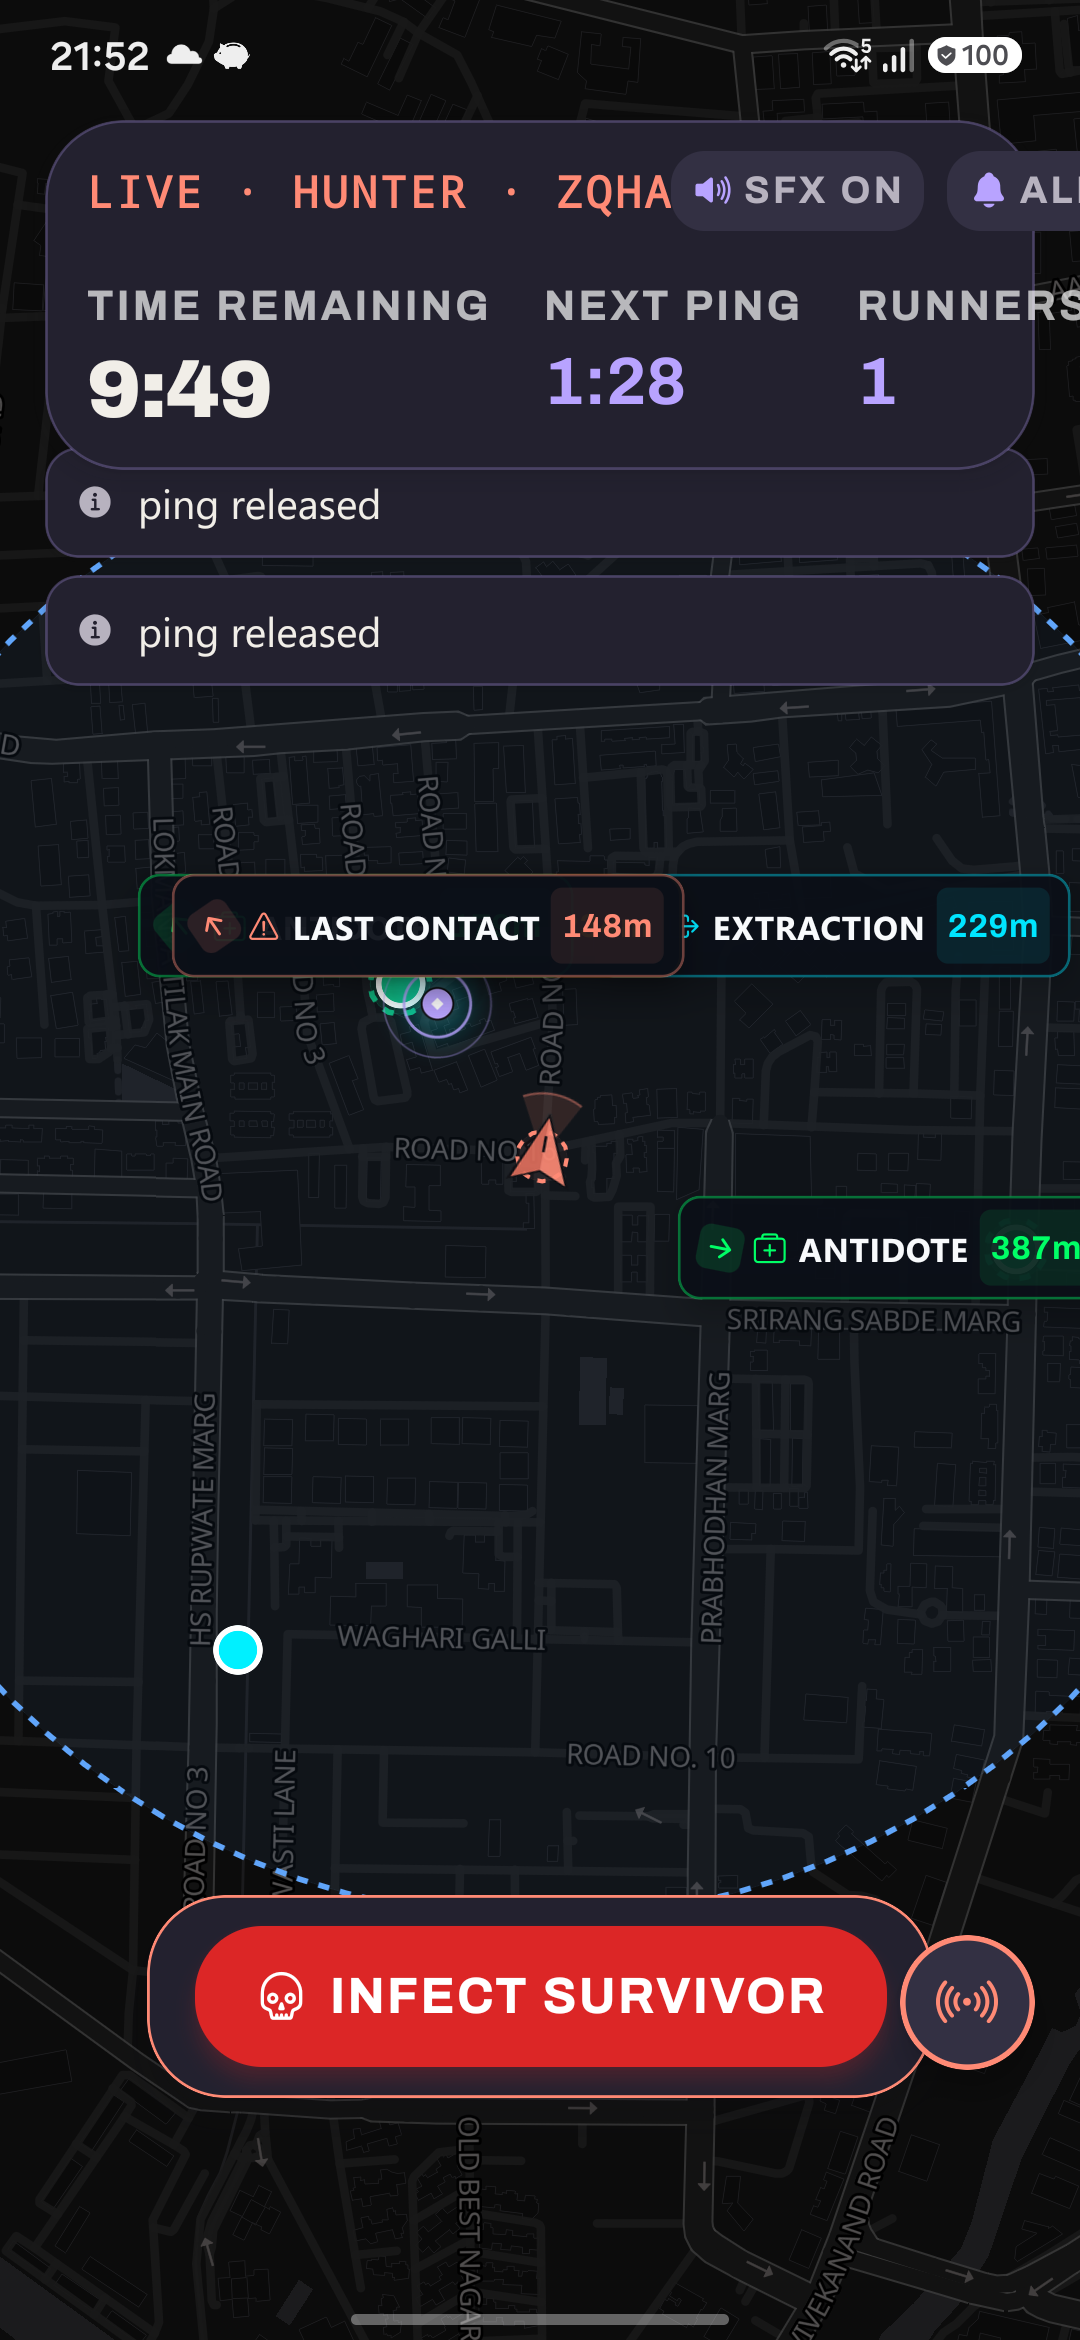
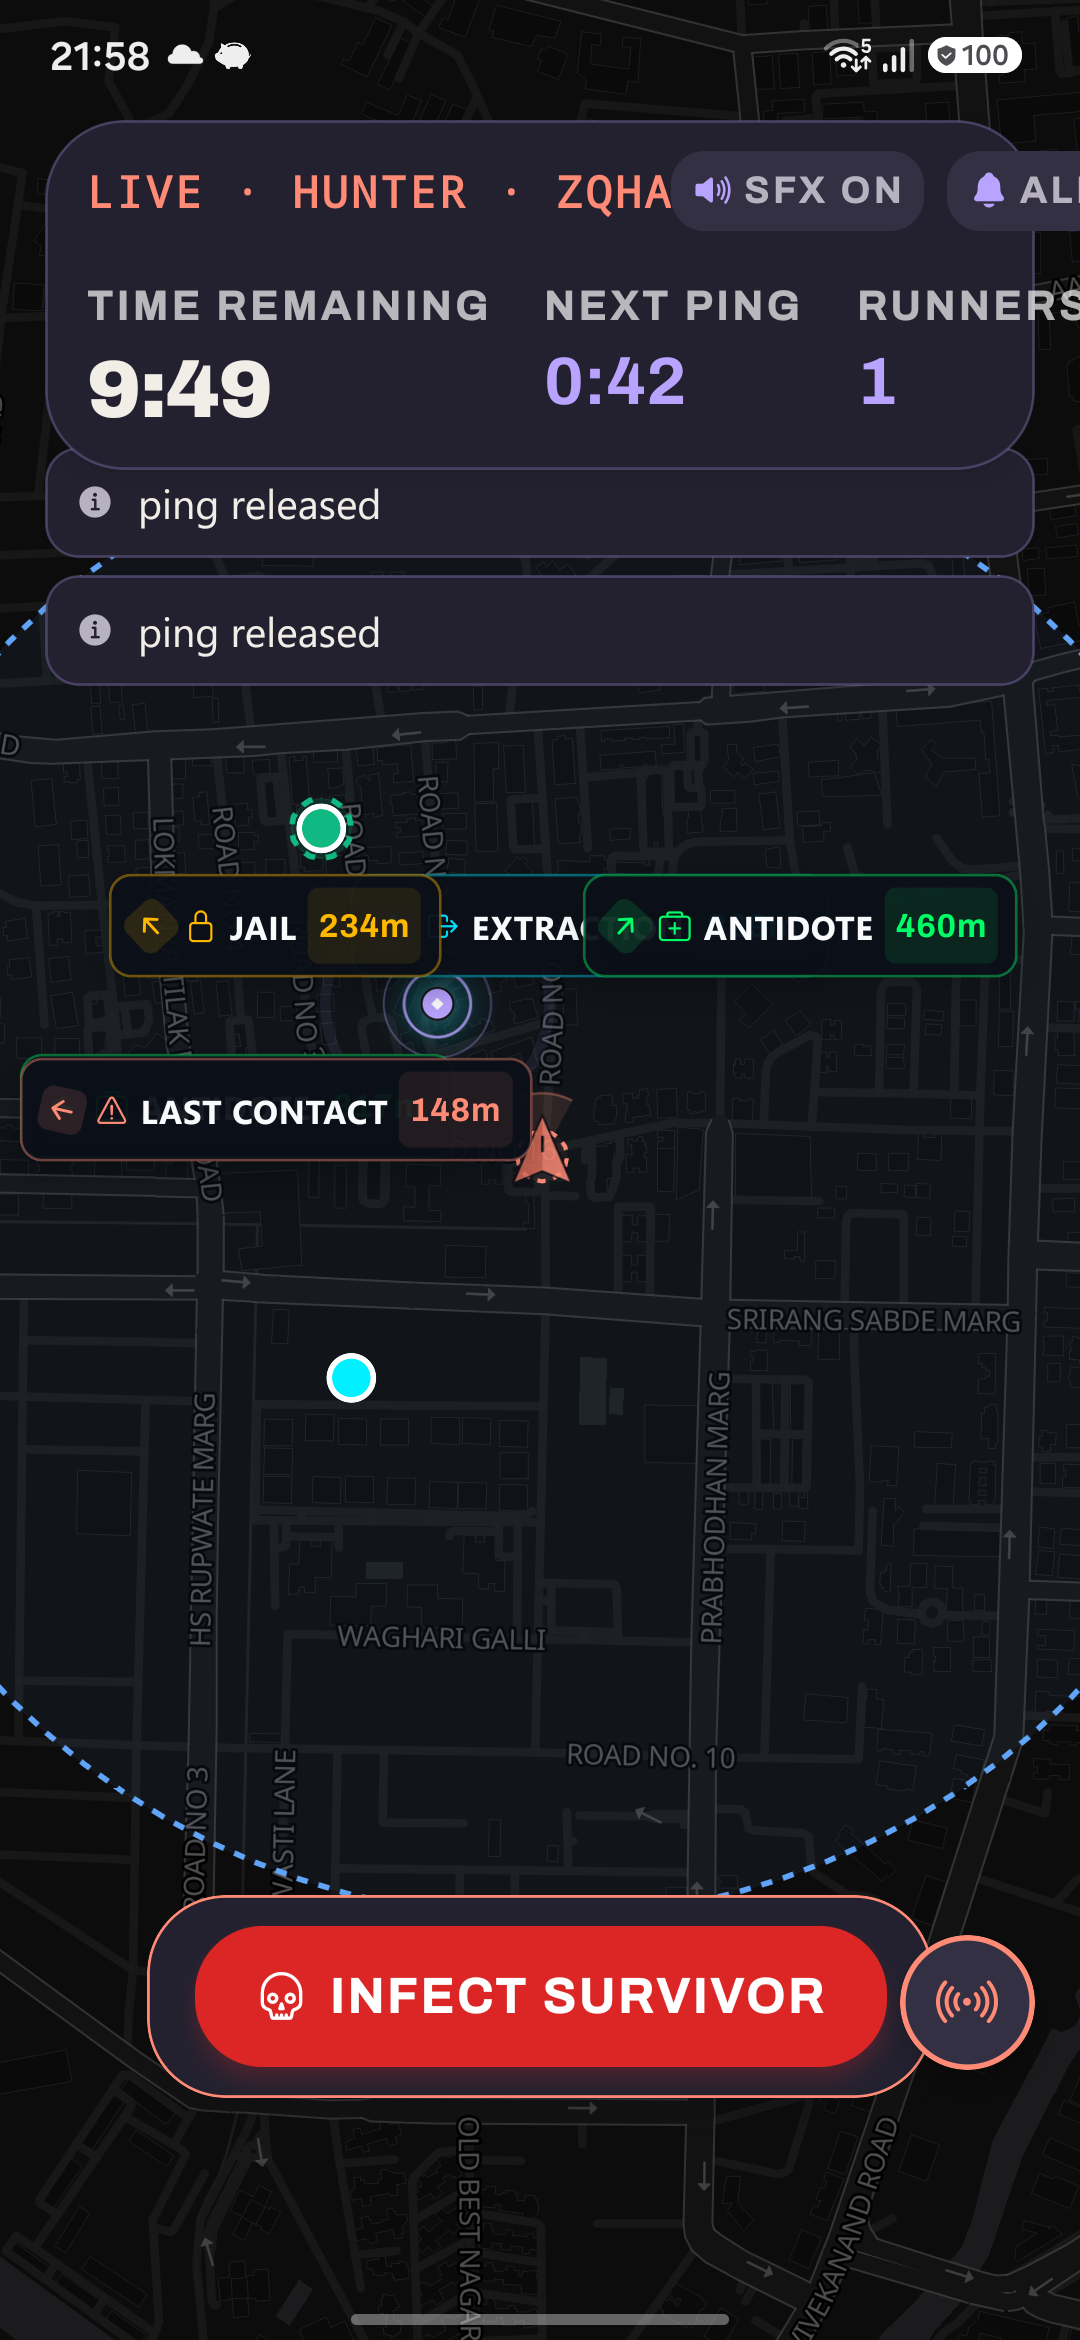
fix(map): lock centered user pointing UP at 12 o'clock and rotate map with smoothed deadband

diff --git a/src/game-shell/MapView.tsx b/src/game-shell/MapView.tsx
@@ -49,29 +49,65 @@ export const MapView = memo(function MapView({
   const { colors, isDark } = useTheme();
   const cameraRef = useRef<CameraRef>(null);
   const lastCameraCenterRef = useRef<[number, number] | null>(null);
+  const currentBearingRef = useRef<number>(0);
+  const lastUpdateTimeRef = useRef<number>(0);
 
-  // Smooth camera following with stationary deadband & rock-solid North-Up orientation.
-  // Suppresses stationary GPS micro-wander (< 4m) and eliminates compass-induced map spinning.
+  // Centered Operative Heading-Up Lock:
+  // The centered operative remains fixed pointing UP (12 o'clock) while the map smoothly rotates
+  // and follows beneath the player. Uses angular and spatial deadbands to eliminate sensor jitter.
   useEffect(() => {
     if (!ownFix || !cameraRef.current) return;
 
+    const now = Date.now();
+    const targetHeading = userHeading !== null && userHeading !== undefined ? userHeading : 0;
+
+    // Shortest angular rotation delta (-180 to +180) to avoid 359-deg flip spins
+    const angleDelta = ((targetHeading - currentBearingRef.current + 540) % 360) - 180;
+
+    // Check position displacement from last camera center
+    let distMoved = 0;
     if (lastCameraCenterRef.current) {
       const prevLngLat = { longitude: lastCameraCenterRef.current[0], latitude: lastCameraCenterRef.current[1] };
-      const dist = distanceM(prevLngLat, ownFix);
-      // Suppress stationary GPS jitter when stationary
-      if (dist < 4.0) {
-        return;
-      }
+      distMoved = distanceM(prevLngLat, ownFix);
+    } else {
+      distMoved = 999;
     }
 
-    lastCameraCenterRef.current = [ownFix.longitude, ownFix.latitude];
+    // Deadbands:
+    // 1. Angular deadband: ignore shifts < 3.5 deg to eliminate sensor tremor and desk noise
+    const shouldRotate = Math.abs(angleDelta) >= 3.5;
+    // 2. Spatial deadband: ignore GPS micro-wander < 3.0 meters when stationary
+    const shouldPan = distMoved >= 3.0;
+
+    // If neither threshold is crossed, keep camera completely frozen (rock solid on table)
+    if (!shouldRotate && !shouldPan && lastCameraCenterRef.current !== null) {
+      return;
+    }
+
+    // Rate-limit camera easeTo calls to at most once per 160ms to prevent animation stutter
+    if (now - lastUpdateTimeRef.current < 160 && lastCameraCenterRef.current !== null) {
+      return;
+    }
+
+    lastUpdateTimeRef.current = now;
+
+    const nextBearing = shouldRotate
+      ? currentBearingRef.current + angleDelta
+      : currentBearingRef.current;
+    currentBearingRef.current = nextBearing;
+
+    const nextCenter: [number, number] = shouldPan
+      ? [ownFix.longitude, ownFix.latitude]
+      : (lastCameraCenterRef.current || [ownFix.longitude, ownFix.latitude]);
+    lastCameraCenterRef.current = nextCenter;
+
     cameraRef.current.easeTo({
-      center: [ownFix.longitude, ownFix.latitude],
-      bearing: 0, // Always North-Up: map NEVER spins or goes crazy when phone is tilted
+      center: nextCenter,
+      bearing: nextBearing,
       zoom: 16.5,
-      duration: 800, // Smooth glide when actually moving
+      duration: 350,
     });
-  }, [ownFix]);
+  }, [ownFix, userHeading]);
   // Memoized GeoJSON features
   const areaRing = useMemo(() => {
     return circleRing({ longitude: area.longitude, latitude: area.latitude }, area.radius_m);
@@ -303,7 +339,7 @@ export const MapView = memo(function MapView({
           <Marker id="own-pointer" lngLat={[ownFix.longitude, ownFix.latitude]}>
             <AnimatedPlayerPointer
               role={role === 'hunter' ? 'hunter' : 'runner'}
-              heading={userHeading ?? 0}
+              heading={0}
               size={52}
             />
           </Marker>

diff --git a/src/components/map/OffScreenObjectiveReticles.tsx b/src/components/map/OffScreenObjectiveReticles.tsx
@@ -68,8 +68,9 @@ export const OffScreenObjectiveReticles = memo(function OffScreenObjectiveReticl
         if (dist < 40) return null;
 
         const absBearing = bearingDeg(ownFix, obj.location);
-        // Map is oriented North-Up for rock-solid stability; screen angle matches absolute bearing
-        const screenAngleDeg = absBearing;
+        // Map rotates with user heading while player is locked pointing UP (12 o'clock).
+        // Relative screen angle is absolute bearing minus operative heading.
+        const screenAngleDeg = (absBearing - heading + 360) % 360;
 
         const rad = (screenAngleDeg * Math.PI) / 180;
         const dx = Math.sin(rad);
